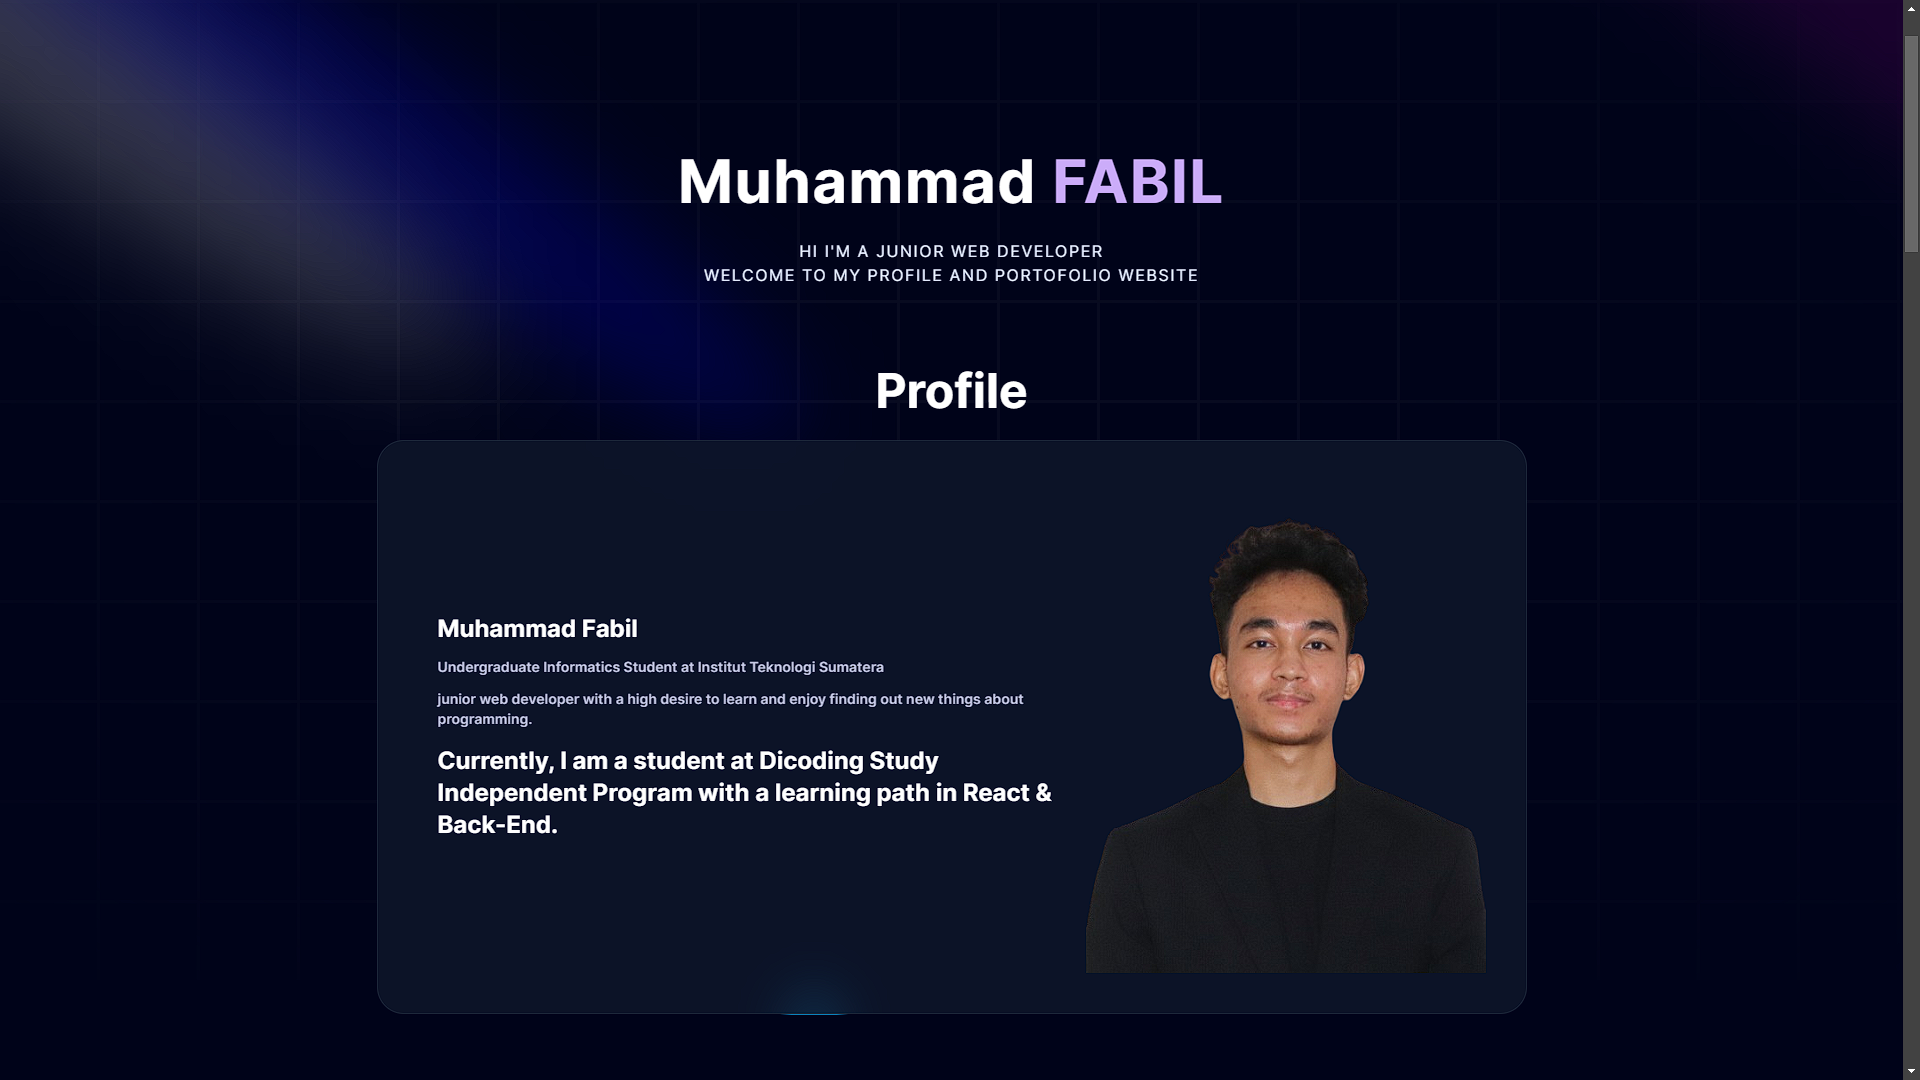
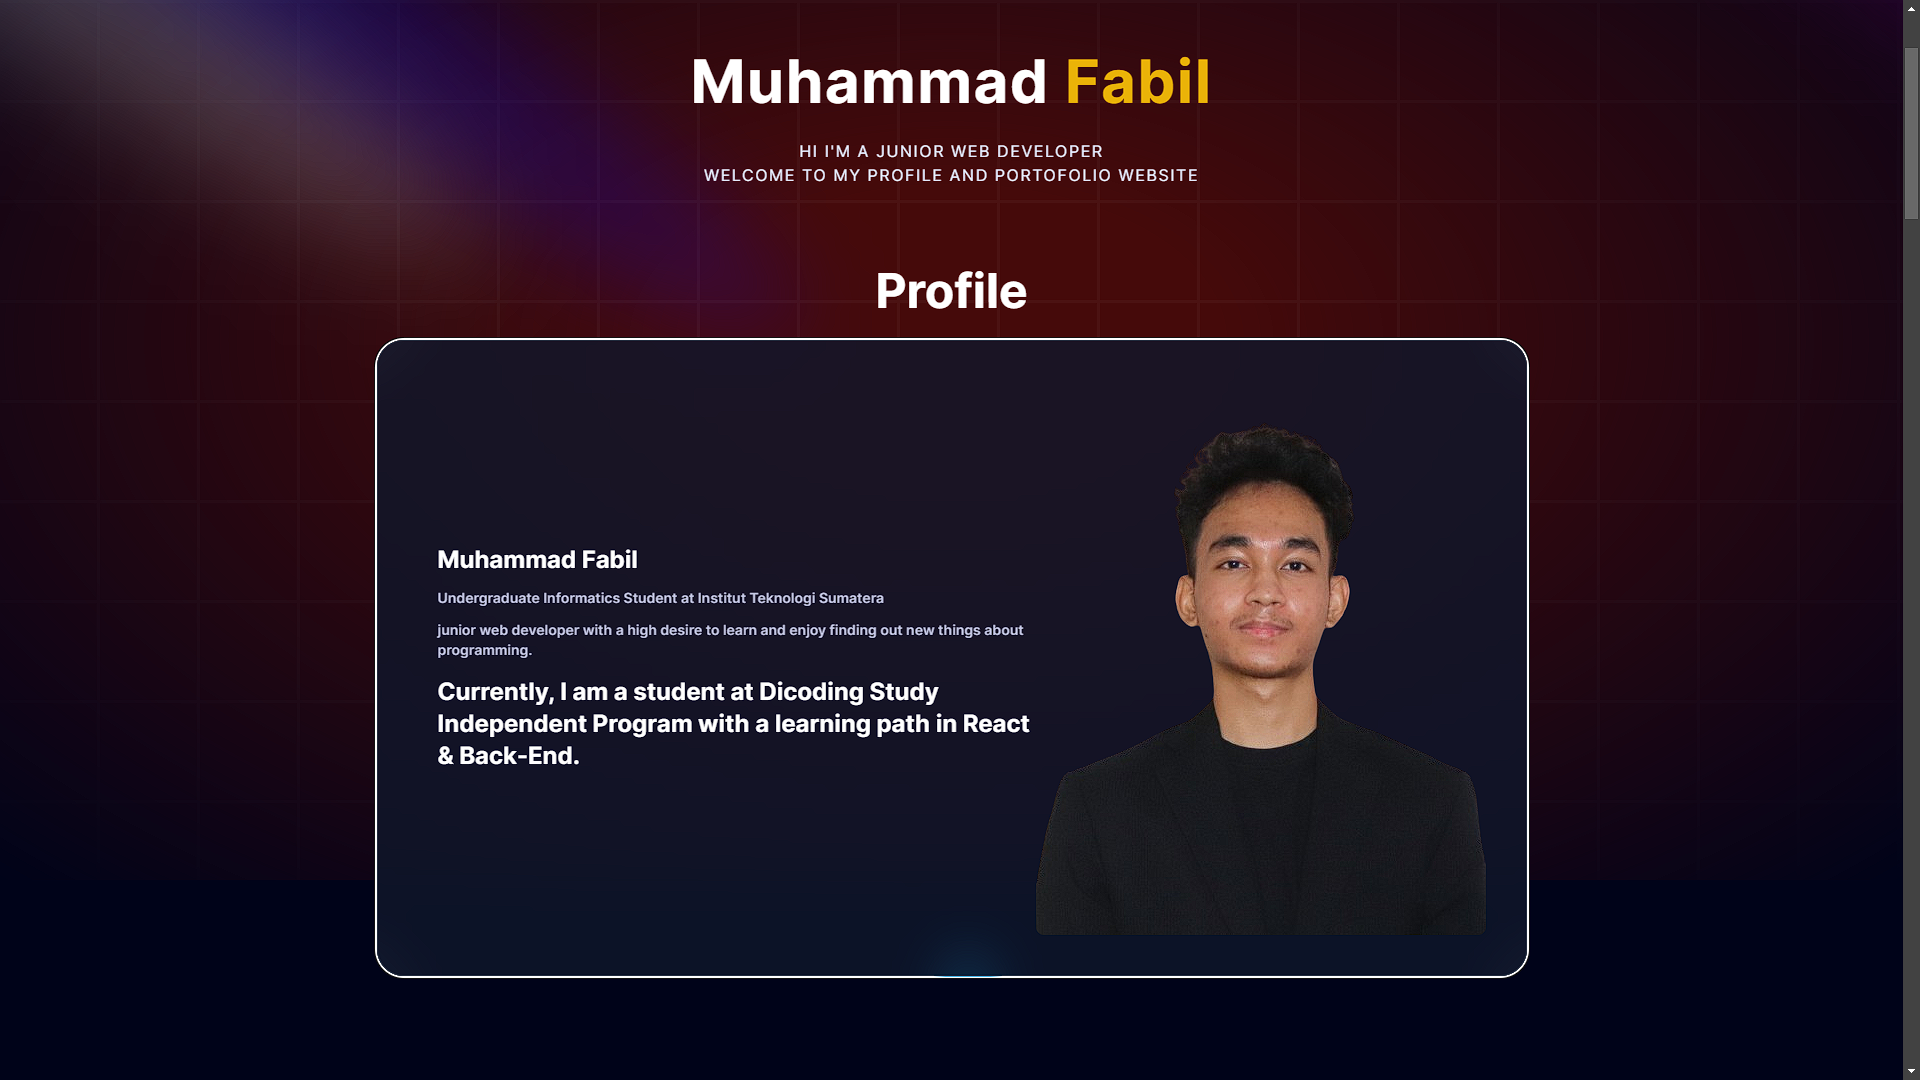
fixing

diff --git a/components/Hero.tsx b/components/Hero.tsx
@@ -73,7 +73,13 @@ const Hero = () => {
                                 Currently, I am a student at Dicoding Study Independent Program with a learning path in React & Back-End.
                             </h1>
                         </div>
-                        <img src="./profile.png" alt="Muhammad Fabil Profil Photo" width={400}/>
+                        <div className="flex-shrink-0 mt-4 md:mt-0">
+                        <img 
+                          src="./profile.png" 
+                          alt="Muhammad Fabil Profil Photo" 
+                          className="w-full max-w-xs md:max-w-md lg:max-w-lg h-auto rounded-lg sm:w-full" 
+                        />
+                      </div>
                     </div>
                 </Button>
             ))}
